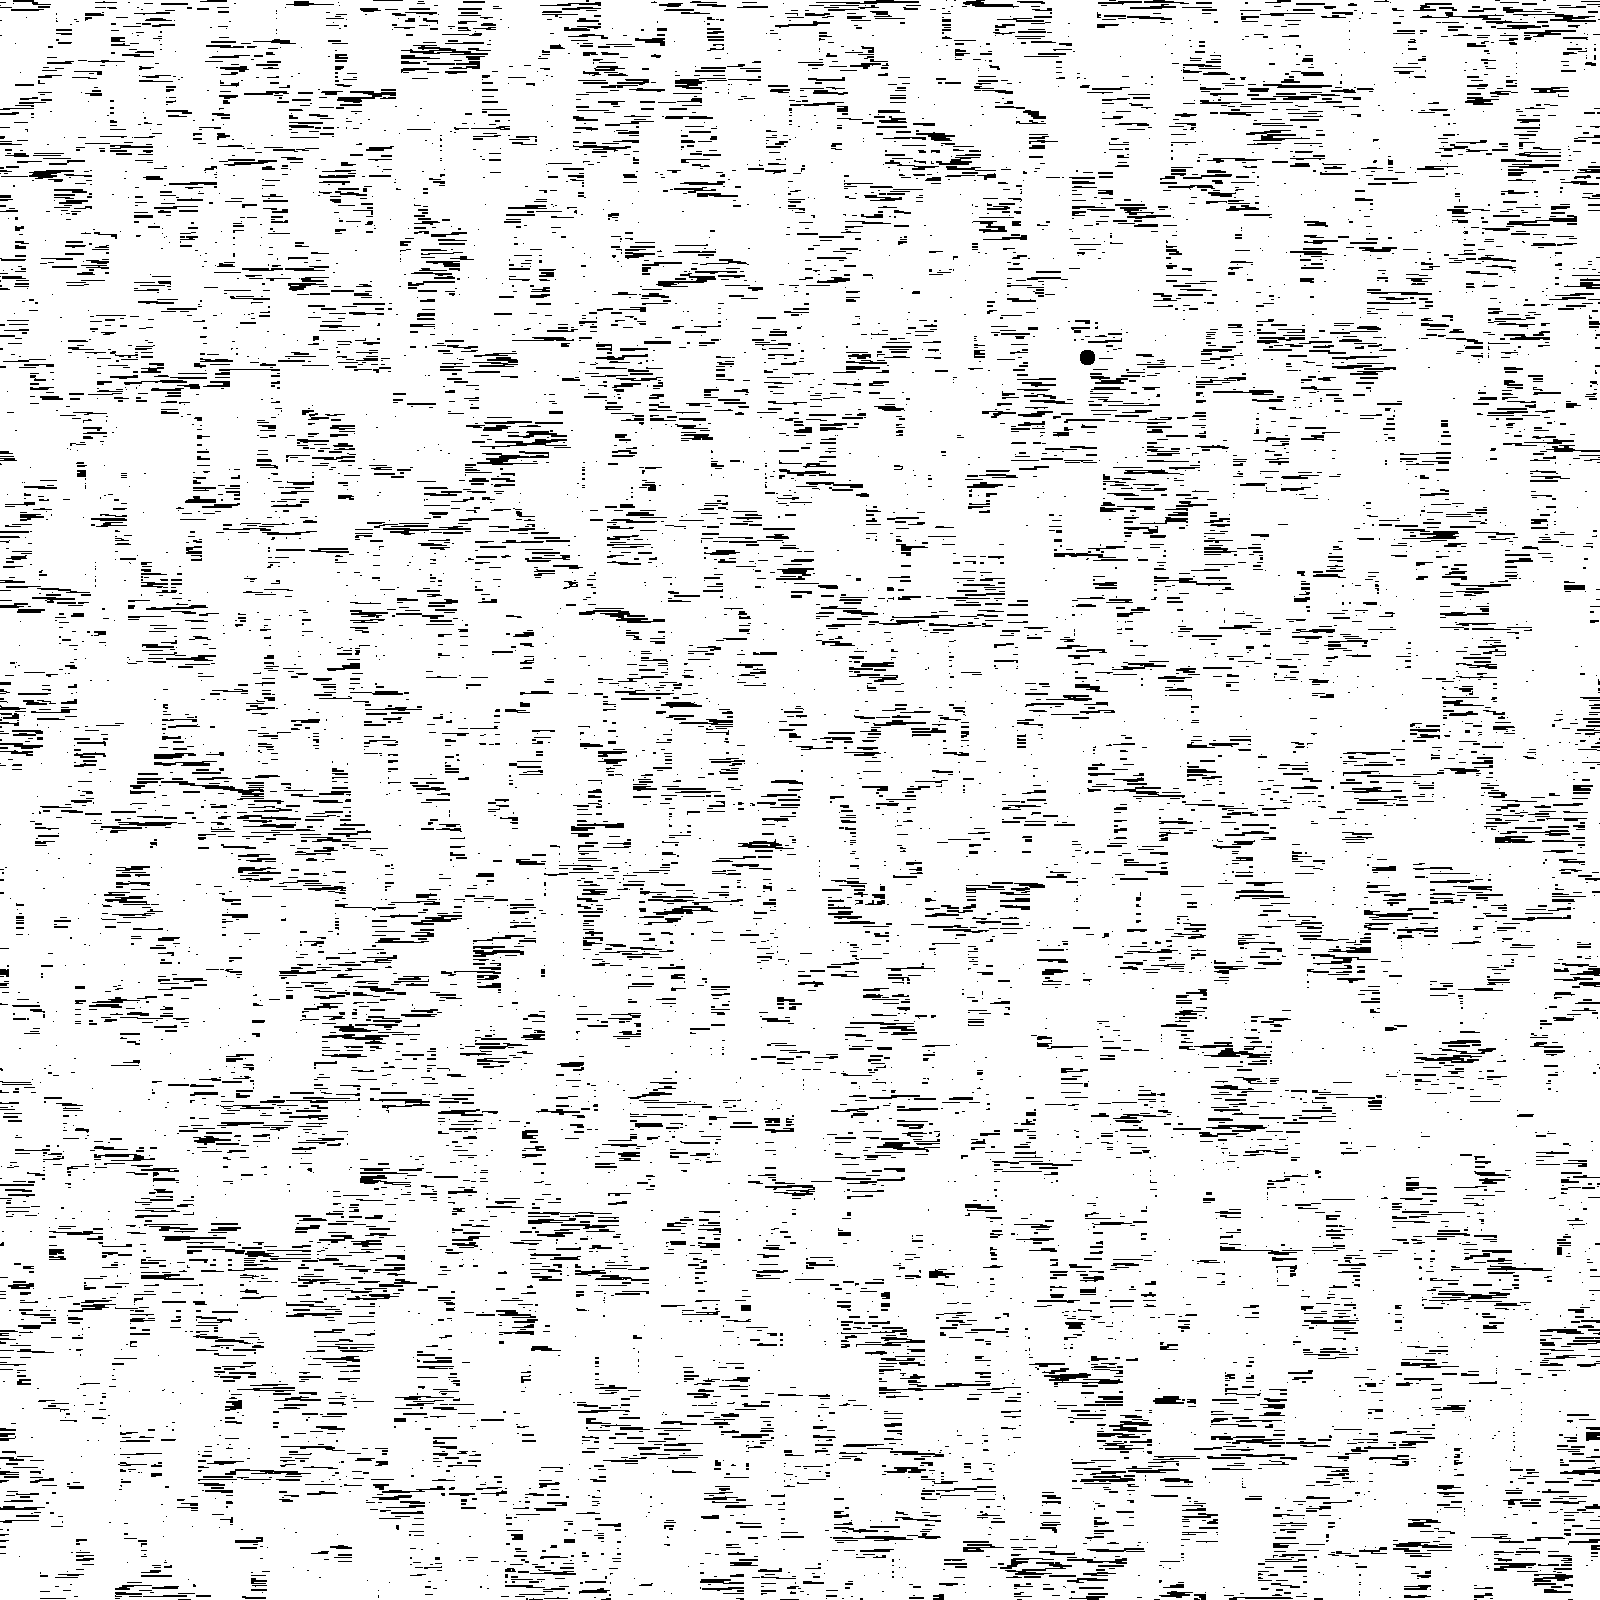
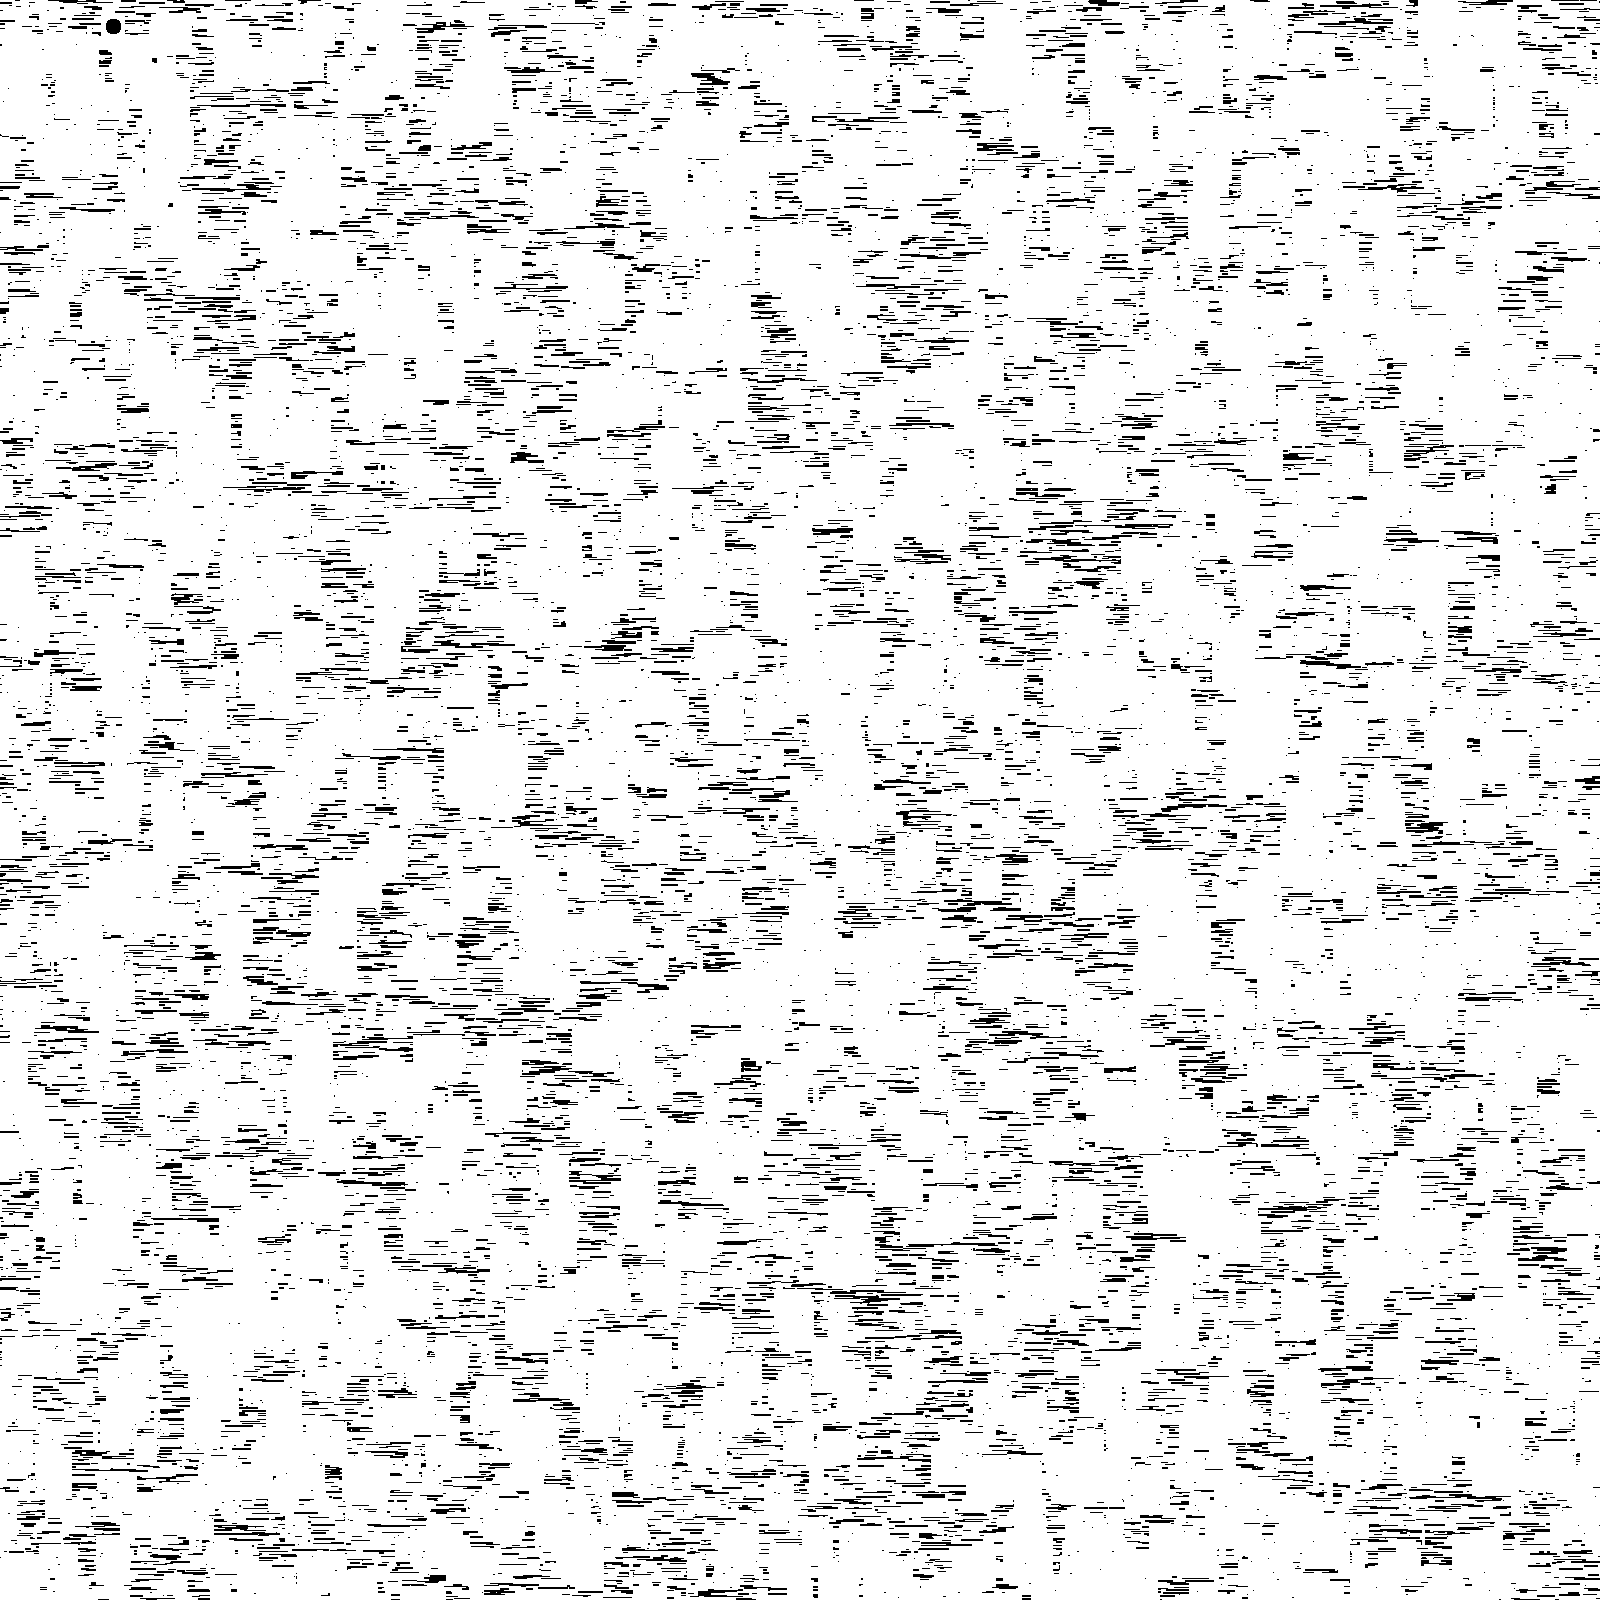
moar monsters

Changed region(s): [[0.0, 0.0, 1.0, 1.0]]

diff --git a/server.js b/server.js
@@ -2,7 +2,7 @@ var app = require('http').createServer()
 	, io = require('socket.io').listen(app)
 	, _ = require('lodash')
 	, gameMap = require('./map.js')
-  , gameItems = require('./items.js')
+  	, gameItems = require('./items.js')
 	, gameMonster = require('./monster.js')
 
 var map = new gameMap.Map();
@@ -11,10 +11,20 @@ var monster = new gameMonster.Monster();
 
 map.create();
 map.create();
-monster.create();
-monster.create();
-monster.create();
-monster.create();
+
+var monsterPerScreen = 0.1;
+var monsterNum = monsterPerScreen*map.mapSize/3072;
+for (i = 0; i < monsterNum; i++) {
+	monster.create();
+
+}
+var monsterSpawns = [];
+for (j = 0; j < monsterNum/2; j++) {
+	var X = Math.floor(Math.random()*map.ret*16);
+	var Y = Math.floor(Math.random()*map.ret*16);
+	var spawnPointeru = {x:X,y:Y};
+	monsterSpawns.push(spawnPointeru);
+}
 items.create();
 //app.listen(process.env.PORT);
 app.listen(8000);
@@ -22,24 +32,15 @@ app.listen(8000);
 var players = [];
 var x = 0;
 var y = 0;
-var monsterSpawns = [{
-	x:50, y: 10000
-},{
-	x: 50, y: 7500
-},{
-	x: 50, y: 5000
-},{
-	x: 50, y: 2500
-}];
 
 io.sockets.on('connection', function (socket) {
 	// connect to level
 	socket.room = 1;
 	socket.join(1);
 	//spawn points
-  var spawnx = Math.random()*640*16;//10;
-  var spawny = Math.random()*640*16;//640*16-10;
-  var spawnPoint = {x: spawnx, y: spawny, level:socket.room};
+	var spawnx = Math.random()*map.ret*16;//10;
+	var spawny = Math.random()*map.ret*16;//640*16-10;
+	var spawnPoint = {x: spawnx, y: spawny, level:socket.room};
 	var player = { id: socket.id , x: spawnPoint.x, y: spawnPoint.y, status: spawnPoint.status};
 	// add player
 	players.push(player);
@@ -48,7 +49,7 @@ io.sockets.on('connection', function (socket) {
 	//push map
 	socket.emit('getMap', map.maps, monster.monsters,items.itemData);
 	//update player
-  socket.broadcast.to('level1').emit('updatePlayers', [player])
+  	socket.broadcast.to('level1').emit('updatePlayers', [player])
 	// update Spawnpoints
 	socket.on('mapCreated', function(){
 		socket.emit('playerSpawn', spawnPoint);
@@ -70,7 +71,7 @@ io.sockets.on('connection', function (socket) {
     socket.broadcast.to(data.level).emit('updateMonsters', [monster])
 	});
 	//update level
-  socket.on('requestLevelChange', function (level) {
+  	socket.on('requestLevelChange', function (level) {
 		console.log(level);
 		console.log(map.maps.length);
 		if (map.maps.length <= level+1) {
@@ -80,14 +81,14 @@ io.sockets.on('connection', function (socket) {
     socket.join(level + 1);
     socket.room = level + 1;
     socket.emit('changeLevel', {level:socket.room, map:map.maps});
-  });
-  socket.on('mapUpdated', function(){
+  	});
+  	socket.on('mapUpdated', function(){
     console.log('mapupdated');
-    var spawnx = Math.random()*640*16;
-    var spawny = Math.random()*640*16;
+    var spawnx = Math.random()*1600*16;
+    var spawny = Math.random()*1600*16;
     var respawnPoint = {x: spawnx, y: spawny};
     socket.emit('playerRepawn', respawnPoint);
-  });
+  	});
 	//disctonnect
 	socket.on('disconnect', function () {
 		_.remove(players, function(p) {
